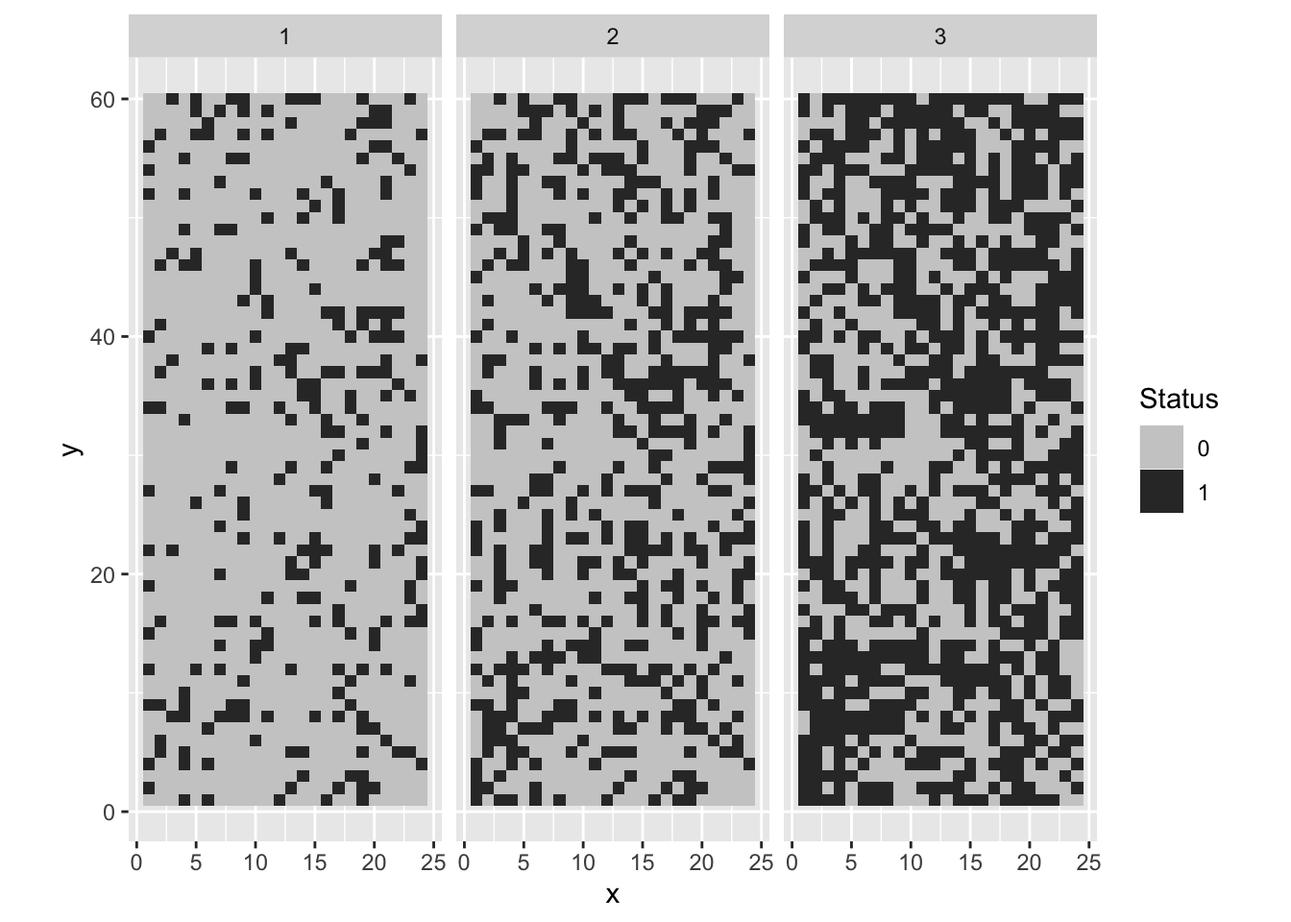
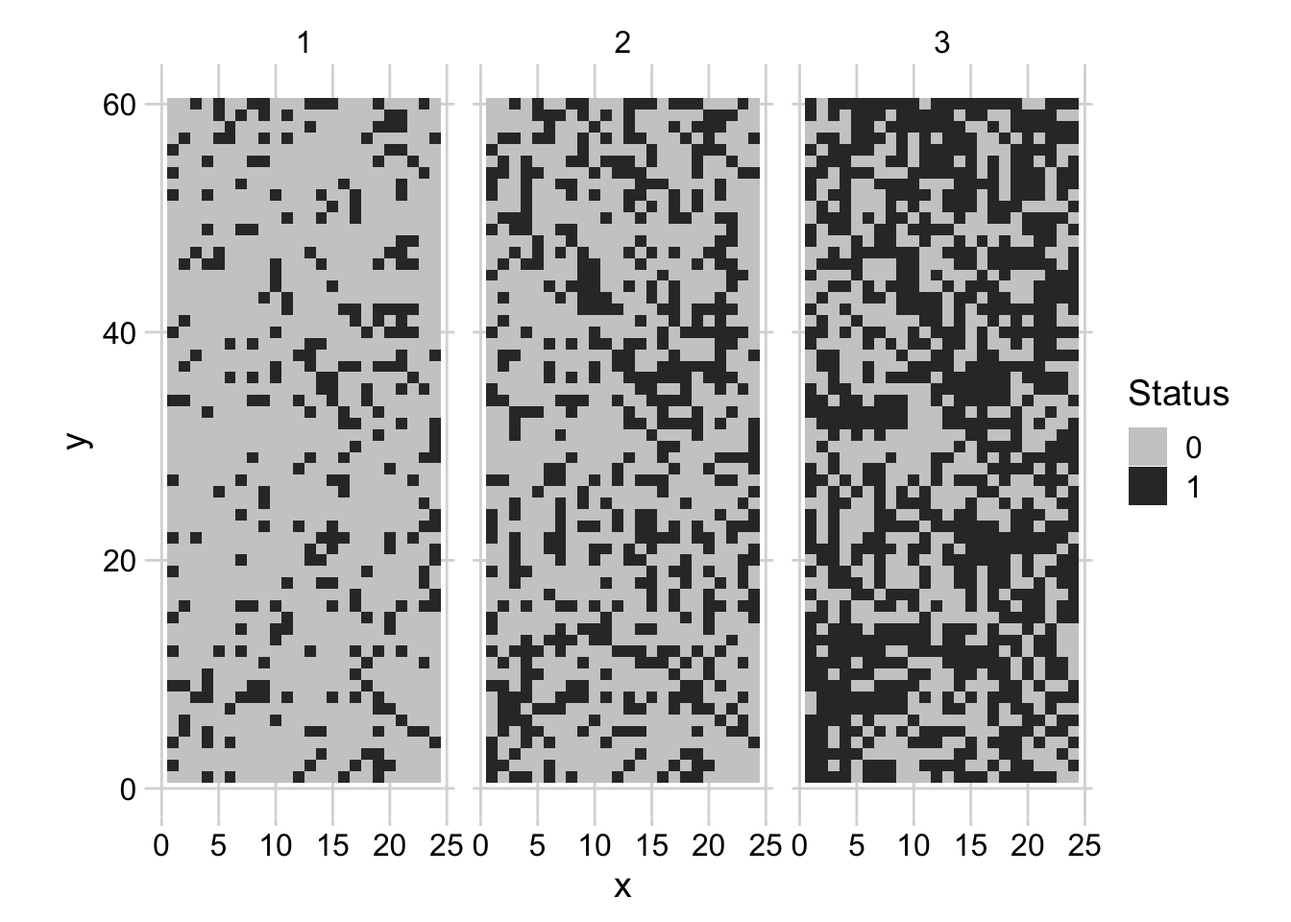
more spatial analyses

diff --git a/_book/spatial-patterns.html b/_book/spatial-patterns.html
@@ -206,6 +206,7 @@
 <li><a href="#intensively-mapped" class="nav-link" data-scroll-target="#intensively-mapped"> <span class="header-section-number">3.2</span> Intensively mapped</a>
 <ul class="collapse">
 <li><a href="#binary-data" class="nav-link" data-scroll-target="#binary-data"> <span class="header-section-number">3.2.1</span> Binary data</a></li>
+<li><a href="#grouped-data" class="nav-link" data-scroll-target="#grouped-data"> <span class="header-section-number">3.2.2</span> Grouped data</a></li>
 </ul></li>
 </ul>
 </nav>
@@ -350,7 +351,7 @@ alternative hypothesis: nonrandomness</code></pre>
 </section>
 <section id="join-count" class="level4" data-number="3.2.1.3">
 <h4 data-number="3.2.1.3" class="anchored" data-anchor-id="join-count"><span class="header-section-number">3.2.1.3</span> Join count</h4>
-<p>In this analysis, two adjacent plants may be classified by the type of join that links them: D-D, H-H or H-D. The orientation(s) of interest (along rows, across rows, diagonally, or a a combination o these) should be specified. The number of joins of the specified type in the orientation(s) of interest is then counted. The question is whether the observed join-count is large (or small) relative to that expected for a random pattern.</p>
+<p>In this analysis, two adjacent plants may be classified by the type of join that links them: D-D, H-H or H-D. The orientation(s) of interest (along rows, across rows, diagonally, or a a combination o these) should be specified. The number of joins of the specified type in the orientation(s) of interest is then counted. The question is whether the observed join-count is large (or small) relative to that expected for a random pattern. The join-count statistics provides a basic measure of spatial autocorrelation.</p>
 <p>In R, we can use the <code>join.count</code> function of the <code>spdep</code> package to perform a joint count test. First we need to create the series of binary data from top to bottom and left to right. The data are shown in Fig. 9.13 in page 260 of the book chapter on spatial analysis <span class="citation" data-cites="chapter2017">(<a href="references.html#ref-chapter2017" role="doc-biblioref">Madden et al. 2017</a>)</span>. In the example, there are 5 rows and 5 columns. This will be informed later to run the test.</p>
 <div class="cell">
 <div class="sourceCode" id="cb12"><pre class="sourceCode r cell-code code-with-copy"><code class="sourceCode r"><span id="cb12-1"><a href="#cb12-1" aria-hidden="true" tabindex="-1"></a><span class="co"># Enter the data</span></span>
@@ -474,9 +475,10 @@ Same colour statistic           Expectation              Variance
 </div>
 <p>We can apply these tests for a real example epidemic data provided by the <a href="https://chgigot.github.io/epiphy/">epiphy</a> R package. Let’s work with part of the intensively mapped data on the incidence of tomato spotted wilt virus (TSWV) disease in field trials reported by Cochran (1936) and Bald (1937). First, we need to load the library and then assign one dataframe (the dataset has two dataframes) of the dataset <code>tomato_tswv</code> to a new dataframe called <code>tswv_1929</code>.</p>
 <div class="cell">
-<div class="sourceCode" id="cb26"><pre class="sourceCode r cell-code code-with-copy"><code class="sourceCode r"><span id="cb26-1"><a href="#cb26-1" aria-hidden="true" tabindex="-1"></a><span class="fu">library</span>(epiphy)</span>
-<span id="cb26-2"><a href="#cb26-2" aria-hidden="true" tabindex="-1"></a>tswv_1929 <span class="ot">&lt;-</span> tomato_tswv<span class="sc">$</span>field_1929</span>
-<span id="cb26-3"><a href="#cb26-3" aria-hidden="true" tabindex="-1"></a><span class="fu">head</span>(tswv_1929) </span></code><button title="Copy to Clipboard" class="code-copy-button"><i class="bi"></i></button></pre></div>
+<div class="sourceCode" id="cb26"><pre class="sourceCode r cell-code code-with-copy"><code class="sourceCode r"><span id="cb26-1"><a href="#cb26-1" aria-hidden="true" tabindex="-1"></a><span class="fu">library</span>(epiphy) </span>
+<span id="cb26-2"><a href="#cb26-2" aria-hidden="true" tabindex="-1"></a><span class="fu">library</span>(cowplot) <span class="co"># theming the ggplot</span></span>
+<span id="cb26-3"><a href="#cb26-3" aria-hidden="true" tabindex="-1"></a>tswv_1929 <span class="ot">&lt;-</span> tomato_tswv<span class="sc">$</span>field_1929</span>
+<span id="cb26-4"><a href="#cb26-4" aria-hidden="true" tabindex="-1"></a><span class="fu">head</span>(tswv_1929) </span></code><button title="Copy to Clipboard" class="code-copy-button"><i class="bi"></i></button></pre></div>
 <div class="cell-output-stdout">
 <pre><code>  x y t i n
 1 1 1 1 0 1
@@ -493,9 +495,10 @@ Same colour statistic           Expectation              Variance
 <span id="cb28-2"><a href="#cb28-2" aria-hidden="true" tabindex="-1"></a>  <span class="fu">ggplot</span>(<span class="fu">aes</span>(x, y, <span class="at">fill =</span> <span class="fu">factor</span>(i)))<span class="sc">+</span></span>
 <span id="cb28-3"><a href="#cb28-3" aria-hidden="true" tabindex="-1"></a>  <span class="fu">geom_tile</span>()<span class="sc">+</span></span>
 <span id="cb28-4"><a href="#cb28-4" aria-hidden="true" tabindex="-1"></a>  <span class="fu">coord_fixed</span>()<span class="sc">+</span></span>
-<span id="cb28-5"><a href="#cb28-5" aria-hidden="true" tabindex="-1"></a>  <span class="fu">scale_fill_grey</span>(<span class="at">start =</span> <span class="fl">0.8</span>, <span class="at">end =</span> <span class="fl">0.2</span>)<span class="sc">+</span></span>
-<span id="cb28-6"><a href="#cb28-6" aria-hidden="true" tabindex="-1"></a>  <span class="fu">facet_wrap</span>(<span class="sc">~</span> t)<span class="sc">+</span></span>
-<span id="cb28-7"><a href="#cb28-7" aria-hidden="true" tabindex="-1"></a>  <span class="fu">labs</span>(<span class="at">fill =</span> <span class="st">"Status"</span>)</span></code><button title="Copy to Clipboard" class="code-copy-button"><i class="bi"></i></button></pre></div>
+<span id="cb28-5"><a href="#cb28-5" aria-hidden="true" tabindex="-1"></a>  <span class="fu">theme_minimal_grid</span>()<span class="sc">+</span></span>
+<span id="cb28-6"><a href="#cb28-6" aria-hidden="true" tabindex="-1"></a>  <span class="fu">scale_fill_grey</span>(<span class="at">start =</span> <span class="fl">0.8</span>, <span class="at">end =</span> <span class="fl">0.2</span>)<span class="sc">+</span></span>
+<span id="cb28-7"><a href="#cb28-7" aria-hidden="true" tabindex="-1"></a>  <span class="fu">facet_wrap</span>(<span class="sc">~</span> t)<span class="sc">+</span></span>
+<span id="cb28-8"><a href="#cb28-8" aria-hidden="true" tabindex="-1"></a>  <span class="fu">labs</span>(<span class="at">fill =</span> <span class="st">"Status"</span>)</span></code><button title="Copy to Clipboard" class="code-copy-button"><i class="bi"></i></button></pre></div>
 <div class="cell-output-display">
 <p><img src="spatial-patterns_files/figure-html/unnamed-chunk-32-1.png" class="img-fluid" width="672"></p>
 </div>
@@ -518,7 +521,7 @@ Same colour statistic           Expectation              Variance
 <p>There are 60 rows and 24 columns.</p>
 <div class="cell">
 <div class="sourceCode" id="cb31"><pre class="sourceCode r cell-code code-with-copy"><code class="sourceCode r"><span id="cb31-1"><a href="#cb31-1" aria-hidden="true" tabindex="-1"></a><span class="co"># Neighbor grid</span></span>
-<span id="cb31-2"><a href="#cb31-2" aria-hidden="true" tabindex="-1"></a>nb <span class="ot">&lt;-</span> <span class="fu">cell2nb</span>(<span class="at">nrow =</span> <span class="dv">60</span>, </span>
+<span id="cb31-2"><a href="#cb31-2" aria-hidden="true" tabindex="-1"></a>nb1 <span class="ot">&lt;-</span> <span class="fu">cell2nb</span>(<span class="at">nrow =</span> <span class="dv">60</span>, </span>
 <span id="cb31-3"><a href="#cb31-3" aria-hidden="true" tabindex="-1"></a>              <span class="at">ncol =</span> <span class="dv">24</span>, </span>
 <span id="cb31-4"><a href="#cb31-4" aria-hidden="true" tabindex="-1"></a>              <span class="at">type=</span><span class="st">"rook"</span>)</span>
 <span id="cb31-5"><a href="#cb31-5" aria-hidden="true" tabindex="-1"></a></span>
@@ -528,13 +531,13 @@ Same colour statistic           Expectation              Variance
 <span id="cb31-9"><a href="#cb31-9" aria-hidden="true" tabindex="-1"></a>  <span class="fu">pull</span>(i)</span>
 <span id="cb31-10"><a href="#cb31-10" aria-hidden="true" tabindex="-1"></a></span>
 <span id="cb31-11"><a href="#cb31-11" aria-hidden="true" tabindex="-1"></a><span class="fu">joincount.test</span>(<span class="fu">factor</span>(S1), </span>
-<span id="cb31-12"><a href="#cb31-12" aria-hidden="true" tabindex="-1"></a>                <span class="fu">nb2listw</span>(nb))</span></code><button title="Copy to Clipboard" class="code-copy-button"><i class="bi"></i></button></pre></div>
+<span id="cb31-12"><a href="#cb31-12" aria-hidden="true" tabindex="-1"></a>                <span class="fu">nb2listw</span>(nb1))</span></code><button title="Copy to Clipboard" class="code-copy-button"><i class="bi"></i></button></pre></div>
 <div class="cell-output-stdout">
 <pre><code>
     Join count test under nonfree sampling
 
 data:  factor(S1) 
-weights: nb2listw(nb) 
+weights: nb2listw(nb1) 
 
 Std. deviate for 0 = -0.28351, p-value = 0.6116
 alternative hypothesis: greater
@@ -546,7 +549,7 @@ Same colour statistic           Expectation              Variance
     Join count test under nonfree sampling
 
 data:  factor(S1) 
-weights: nb2listw(nb) 
+weights: nb2listw(nb1) 
 
 Std. deviate for 1 = -0.059497, p-value = 0.5237
 alternative hypothesis: greater
@@ -555,7 +558,7 @@ Same colour statistic           Expectation              Variance
             23.458333             23.578874              4.104614 </code></pre>
 </div>
 </div>
-<p>We can repeat the procedure for time 2 and time 3.</p>
+<p>We can apply the join count test for time 2 and time 3. Results show that the pattern changes from random to aggregate over time.</p>
 <div class="cell">
 <div class="sourceCode" id="cb33"><pre class="sourceCode r cell-code code-with-copy"><code class="sourceCode r"><span id="cb33-1"><a href="#cb33-1" aria-hidden="true" tabindex="-1"></a><span class="co"># Pull the binary sequence of time 1</span></span>
 <span id="cb33-2"><a href="#cb33-2" aria-hidden="true" tabindex="-1"></a>S2 <span class="ot">&lt;-</span> tswv_1929 <span class="sc">%&gt;%</span> </span>
@@ -563,13 +566,13 @@ Same colour statistic           Expectation              Variance
 <span id="cb33-4"><a href="#cb33-4" aria-hidden="true" tabindex="-1"></a>  <span class="fu">pull</span>(i)</span>
 <span id="cb33-5"><a href="#cb33-5" aria-hidden="true" tabindex="-1"></a></span>
 <span id="cb33-6"><a href="#cb33-6" aria-hidden="true" tabindex="-1"></a><span class="fu">joincount.test</span>(<span class="fu">factor</span>(S2), </span>
-<span id="cb33-7"><a href="#cb33-7" aria-hidden="true" tabindex="-1"></a>                <span class="fu">nb2listw</span>(nb))</span></code><button title="Copy to Clipboard" class="code-copy-button"><i class="bi"></i></button></pre></div>
+<span id="cb33-7"><a href="#cb33-7" aria-hidden="true" tabindex="-1"></a>                <span class="fu">nb2listw</span>(nb1))</span></code><button title="Copy to Clipboard" class="code-copy-button"><i class="bi"></i></button></pre></div>
 <div class="cell-output-stdout">
 <pre><code>
     Join count test under nonfree sampling
 
 data:  factor(S2) 
-weights: nb2listw(nb) 
+weights: nb2listw(nb1) 
 
 Std. deviate for 0 = 0.35872, p-value = 0.3599
 alternative hypothesis: greater
@@ -581,7 +584,7 @@ Same colour statistic           Expectation              Variance
     Join count test under nonfree sampling
 
 data:  factor(S2) 
-weights: nb2listw(nb) 
+weights: nb2listw(nb1) 
 
 Std. deviate for 1 = 0.34604, p-value = 0.3647
 alternative hypothesis: greater
@@ -595,13 +598,13 @@ Same colour statistic           Expectation              Variance
 <span id="cb35-4"><a href="#cb35-4" aria-hidden="true" tabindex="-1"></a>  <span class="fu">pull</span>(i)</span>
 <span id="cb35-5"><a href="#cb35-5" aria-hidden="true" tabindex="-1"></a></span>
 <span id="cb35-6"><a href="#cb35-6" aria-hidden="true" tabindex="-1"></a><span class="fu">joincount.test</span>(<span class="fu">factor</span>(S3), </span>
-<span id="cb35-7"><a href="#cb35-7" aria-hidden="true" tabindex="-1"></a>                <span class="fu">nb2listw</span>(nb))</span></code><button title="Copy to Clipboard" class="code-copy-button"><i class="bi"></i></button></pre></div>
+<span id="cb35-7"><a href="#cb35-7" aria-hidden="true" tabindex="-1"></a>                <span class="fu">nb2listw</span>(nb1))</span></code><button title="Copy to Clipboard" class="code-copy-button"><i class="bi"></i></button></pre></div>
 <div class="cell-output-stdout">
 <pre><code>
     Join count test under nonfree sampling
 
 data:  factor(S3) 
-weights: nb2listw(nb) 
+weights: nb2listw(nb1) 
 
 Std. deviate for 0 = 1.8541, p-value = 0.03186
 alternative hypothesis: greater
@@ -613,7 +616,7 @@ Same colour statistic           Expectation              Variance
     Join count test under nonfree sampling
 
 data:  factor(S3) 
-weights: nb2listw(nb) 
+weights: nb2listw(nb1) 
 
 Std. deviate for 1 = 1.7275, p-value = 0.04204
 alternative hypothesis: greater
@@ -622,6 +625,172 @@ Same colour statistic           Expectation              Variance
             243.70833             237.92773              11.19743 </code></pre>
 </div>
 </div>
+</section>
+</section>
+<section id="grouped-data" class="level3" data-number="3.2.2">
+<h3 data-number="3.2.2" class="anchored" data-anchor-id="grouped-data"><span class="header-section-number">3.2.2</span> Grouped data</h3>
+<p>If the data are intensively mapped, meaning that the spatial locations of the sampling units are known, we are not limited to analyse presence/absence (incidence) only data at the unit level. The sampling units may be quadrats where the total number of plants and the number of disease plants (or number of pathogen propagules) are known. Alternatively, it could be a continuous measure of severity. The question here, similar to the previous section, is whether a plant being diseased makes it more (or less) likely that neighboring plants will be diseased. If that is the case, diseased plants are exhibiting spatial autocorrelation. The most common methods are autocorrelation (known as Moran’s I), semivariance and SADIE (an alternative approach to autocorrelation.)</p>
+<section id="autocorrelation" class="level4" data-number="3.2.2.1">
+<h4 data-number="3.2.2.1" class="anchored" data-anchor-id="autocorrelation"><span class="header-section-number">3.2.2.1</span> Autocorrelation</h4>
+<p>Spatial autocorrelation analysis provides a quantitative assessment of whether a large value of disease intensity in a sampling unit makes it more (positive autocorrelation) or less (negative auto- correlation) likely that neighboring sampling units tend to have a large value of disease intensity <span class="citation" data-cites="chapter2017">(<a href="references.html#ref-chapter2017" role="doc-biblioref">Madden et al. 2017</a>)</span>.</p>
+<p>We will illustrate the method by reproducing the example provided in page 264 of the chapter on spatial analysis <span class="citation" data-cites="chapter2017">(<a href="references.html#ref-chapter2017" role="doc-biblioref">Madden et al. 2017</a>)</span>, which was extracted from table 11.3 of Campbell and Madden (1990). The data represent a single transect with the number of <em>Macrophomia phaseolina</em> propagules per 10 g air-dry soil recorded in 16 contiguous quadrats across a field.</p>
+<div class="cell">
+<div class="sourceCode" id="cb37"><pre class="sourceCode r cell-code code-with-copy"><code class="sourceCode r"><span id="cb37-1"><a href="#cb37-1" aria-hidden="true" tabindex="-1"></a>mp <span class="ot">&lt;-</span> <span class="fu">data.frame</span>(</span>
+<span id="cb37-2"><a href="#cb37-2" aria-hidden="true" tabindex="-1"></a>  <span class="at">i =</span> <span class="fu">c</span>(<span class="dv">1</span><span class="sc">:</span><span class="dv">16</span>),</span>
+<span id="cb37-3"><a href="#cb37-3" aria-hidden="true" tabindex="-1"></a>  <span class="at">y =</span> <span class="fu">c</span>(<span class="dv">41</span>, <span class="dv">60</span>, <span class="dv">81</span>, <span class="dv">22</span>, <span class="dv">8</span>, <span class="dv">20</span>, <span class="dv">28</span>, <span class="dv">2</span>, <span class="dv">0</span>, <span class="dv">2</span>, <span class="dv">2</span>, <span class="dv">8</span>, <span class="dv">0</span>, <span class="dv">43</span>, <span class="dv">61</span>, <span class="dv">50</span>)</span>
+<span id="cb37-4"><a href="#cb37-4" aria-hidden="true" tabindex="-1"></a>)</span>
+<span id="cb37-5"><a href="#cb37-5" aria-hidden="true" tabindex="-1"></a>mp</span></code><button title="Copy to Clipboard" class="code-copy-button"><i class="bi"></i></button></pre></div>
+<div class="cell-output-stdout">
+<pre><code>    i  y
+1   1 41
+2   2 60
+3   3 81
+4   4 22
+5   5  8
+6   6 20
+7   7 28
+8   8  2
+9   9  0
+10 10  2
+11 11  2
+12 12  8
+13 13  0
+14 14 43
+15 15 61
+16 16 50</code></pre>
+</div>
+</div>
+<p>We can produce a plot to visualize the number of propagules across the transect.</p>
+<div class="cell">
+<div class="sourceCode" id="cb39"><pre class="sourceCode r cell-code code-with-copy"><code class="sourceCode r"><span id="cb39-1"><a href="#cb39-1" aria-hidden="true" tabindex="-1"></a>mp <span class="sc">%&gt;%</span> </span>
+<span id="cb39-2"><a href="#cb39-2" aria-hidden="true" tabindex="-1"></a>  <span class="fu">ggplot</span>(<span class="fu">aes</span>(i, y))<span class="sc">+</span></span>
+<span id="cb39-3"><a href="#cb39-3" aria-hidden="true" tabindex="-1"></a>  <span class="fu">geom_col</span>(<span class="at">fill =</span> <span class="st">"darkorange"</span>)<span class="sc">+</span></span>
+<span id="cb39-4"><a href="#cb39-4" aria-hidden="true" tabindex="-1"></a>  <span class="fu">theme_minimal_grid</span>()<span class="sc">+</span></span>
+<span id="cb39-5"><a href="#cb39-5" aria-hidden="true" tabindex="-1"></a>  <span class="fu">labs</span>(<span class="at">x =</span> <span class="st">"Relative position within a transect"</span>, </span>
+<span id="cb39-6"><a href="#cb39-6" aria-hidden="true" tabindex="-1"></a>       <span class="at">y =</span> <span class="st">"Number of propagules"</span>,</span>
+<span id="cb39-7"><a href="#cb39-7" aria-hidden="true" tabindex="-1"></a>       <span class="at">title =</span> <span class="st">"Macrophomina phaseolina in the soil"</span>,</span>
+<span id="cb39-8"><a href="#cb39-8" aria-hidden="true" tabindex="-1"></a>       <span class="at">caption =</span> <span class="st">"Source: Campbell and Madden (1990)"</span>)</span></code><button title="Copy to Clipboard" class="code-copy-button"><i class="bi"></i></button></pre></div>
+<div class="cell-output-display">
+<p><img src="spatial-patterns_files/figure-html/unnamed-chunk-42-1.png" class="img-fluid" width="672"></p>
+</div>
+</div>
+<p>To calculate the autocorrelation coefficient in R, we can use the <code>ac</code> function of the <em>tseries</em> package.</p>
+<div class="cell">
+<div class="sourceCode" id="cb40"><pre class="sourceCode r cell-code code-with-copy"><code class="sourceCode r"><span id="cb40-1"><a href="#cb40-1" aria-hidden="true" tabindex="-1"></a><span class="fu">library</span>(tseries)</span>
+<span id="cb40-2"><a href="#cb40-2" aria-hidden="true" tabindex="-1"></a>ac_mp <span class="ot">&lt;-</span> <span class="fu">acf</span>(mp<span class="sc">$</span>y, <span class="at">lag =</span> <span class="dv">5</span>, <span class="at">pl =</span> <span class="cn">FALSE</span>)</span>
+<span id="cb40-3"><a href="#cb40-3" aria-hidden="true" tabindex="-1"></a>ac_mp</span></code><button title="Copy to Clipboard" class="code-copy-button"><i class="bi"></i></button></pre></div>
+<div class="cell-output-stdout">
+<pre><code>
+Autocorrelations of series 'mp$y', by lag
+
+     0      1      2      3      4      5 
+ 1.000  0.586  0.126 -0.033 -0.017 -0.181 </code></pre>
+</div>
+</div>
+<p>Let’s store the results in a dataframe to facilitate visualization using ggplot.</p>
+<div class="cell">
+<div class="sourceCode" id="cb42"><pre class="sourceCode r cell-code code-with-copy"><code class="sourceCode r"><span id="cb42-1"><a href="#cb42-1" aria-hidden="true" tabindex="-1"></a>ac_mp_dat <span class="ot">&lt;-</span> <span class="fu">data.frame</span>(<span class="at">index =</span> ac_mp<span class="sc">$</span>lag, ac_mp<span class="sc">$</span>acf)</span>
+<span id="cb42-2"><a href="#cb42-2" aria-hidden="true" tabindex="-1"></a>ac_mp_dat</span></code><button title="Copy to Clipboard" class="code-copy-button"><i class="bi"></i></button></pre></div>
+<div class="cell-output-stdout">
+<pre><code>  index   ac_mp.acf
+1     0  1.00000000
+2     1  0.58579374
+3     2  0.12636306
+4     3 -0.03307249
+5     4 -0.01701392
+6     5 -0.18092810</code></pre>
+</div>
+</div>
+<p>And now the plot known as autocorrelogram.</p>
+<div class="cell">
+<div class="sourceCode" id="cb44"><pre class="sourceCode r cell-code code-with-copy"><code class="sourceCode r"><span id="cb44-1"><a href="#cb44-1" aria-hidden="true" tabindex="-1"></a>ac_mp_dat <span class="sc">%&gt;%</span> </span>
+<span id="cb44-2"><a href="#cb44-2" aria-hidden="true" tabindex="-1"></a>  <span class="fu">ggplot</span>(<span class="fu">aes</span>(index, ac_mp.acf, <span class="at">label =</span> <span class="fu">round</span>(ac_mp.acf,<span class="dv">3</span>)))<span class="sc">+</span></span>
+<span id="cb44-3"><a href="#cb44-3" aria-hidden="true" tabindex="-1"></a>  <span class="fu">geom_col</span>()<span class="sc">+</span></span>
+<span id="cb44-4"><a href="#cb44-4" aria-hidden="true" tabindex="-1"></a>  <span class="fu">geom_text</span>(<span class="at">vjust =</span> <span class="dv">0</span>, <span class="at">nudge_y =</span> <span class="fl">0.05</span>)<span class="sc">+</span></span>
+<span id="cb44-5"><a href="#cb44-5" aria-hidden="true" tabindex="-1"></a>  <span class="fu">scale_x_continuous</span>(<span class="at">n.breaks =</span> <span class="dv">6</span>)<span class="sc">+</span></span>
+<span id="cb44-6"><a href="#cb44-6" aria-hidden="true" tabindex="-1"></a>  <span class="fu">theme_minimal_grid</span>()<span class="sc">+</span></span>
+<span id="cb44-7"><a href="#cb44-7" aria-hidden="true" tabindex="-1"></a>  <span class="fu">geom_hline</span>(<span class="at">yintercept =</span> <span class="dv">0</span>)<span class="sc">+</span></span>
+<span id="cb44-8"><a href="#cb44-8" aria-hidden="true" tabindex="-1"></a>  <span class="fu">labs</span>(<span class="at">x =</span> <span class="st">"Distance lag"</span>, <span class="at">y =</span> <span class="st">"Autocorrelation coefficient"</span>)</span></code><button title="Copy to Clipboard" class="code-copy-button"><i class="bi"></i></button></pre></div>
+<div class="cell-output-display">
+<p><img src="spatial-patterns_files/figure-html/unnamed-chunk-48-1.png" class="img-fluid" width="672"></p>
+</div>
+</div>
+<p>The values we obtained here are not the same but quite close to the values reported in Madden et al.&nbsp;(2007). For the transect data, the calculated coefficients in the book example for lags 1, 2 and 3 are 0.625, 0.144, and - 0.041. The conclusion is the same, the smaller the distance between sampling units, the stronger is the correlation between the count values.</p>
+<p>The method above is usually referred to Moran’s I (Moran, 1950). Let’s use another example dataset from the book to calculate Moran’s I in R. The data is shown in page 269 of the book. The data are number of diseased plants per quadrat (out of a total of 100 plants in each) in 144 quadrats, based on an epidemic generated using the stochastic simulator of Xu and Madden (2004). The data is stored in a csv file.</p>
+<div class="cell">
+<div class="sourceCode" id="cb45"><pre class="sourceCode r cell-code code-with-copy"><code class="sourceCode r"><span id="cb45-1"><a href="#cb45-1" aria-hidden="true" tabindex="-1"></a>epi <span class="ot">&lt;-</span> <span class="fu">read_csv</span>(<span class="st">"data/xu-madden-simulated.csv"</span>)</span></code><button title="Copy to Clipboard" class="code-copy-button"><i class="bi"></i></button></pre></div>
+<div class="cell-output-stderr">
+<pre><code>
+── Column specification ────────────────────────────────────────────────────────
+cols(
+  x = col_double(),
+  `1` = col_double(),
+  `2` = col_double(),
+  `3` = col_double(),
+  `4` = col_double(),
+  `5` = col_double(),
+  `6` = col_double(),
+  `7` = col_double(),
+  `8` = col_double(),
+  `9` = col_double(),
+  `10` = col_double(),
+  `11` = col_double(),
+  `12` = col_double()
+)</code></pre>
+</div>
+<div class="sourceCode" id="cb47"><pre class="sourceCode r cell-code code-with-copy"><code class="sourceCode r"><span id="cb47-1"><a href="#cb47-1" aria-hidden="true" tabindex="-1"></a><span class="co"># transform from wide to long format and pull the n variable</span></span>
+<span id="cb47-2"><a href="#cb47-2" aria-hidden="true" tabindex="-1"></a>epi1 <span class="ot">&lt;-</span> epi <span class="sc">%&gt;%</span> </span>
+<span id="cb47-3"><a href="#cb47-3" aria-hidden="true" tabindex="-1"></a>  <span class="fu">pivot_longer</span>(<span class="dv">2</span><span class="sc">:</span><span class="dv">13</span>,</span>
+<span id="cb47-4"><a href="#cb47-4" aria-hidden="true" tabindex="-1"></a>               <span class="at">names_to =</span> <span class="st">"quadrat"</span>,</span>
+<span id="cb47-5"><a href="#cb47-5" aria-hidden="true" tabindex="-1"></a>               <span class="at">values_to =</span> <span class="st">"n"</span>) <span class="sc">%&gt;%</span> </span>
+<span id="cb47-6"><a href="#cb47-6" aria-hidden="true" tabindex="-1"></a>  <span class="fu">pull</span>(n)</span></code><button title="Copy to Clipboard" class="code-copy-button"><i class="bi"></i></button></pre></div>
+</div>
+<p>Using <code>moran</code> function of the <em>spdep</em> R package.</p>
+<div class="cell">
+<div class="sourceCode" id="cb48"><pre class="sourceCode r cell-code code-with-copy"><code class="sourceCode r"><span id="cb48-1"><a href="#cb48-1" aria-hidden="true" tabindex="-1"></a><span class="fu">set.seed</span>(<span class="dv">100</span>)</span>
+<span id="cb48-2"><a href="#cb48-2" aria-hidden="true" tabindex="-1"></a><span class="fu">library</span>(spdep)</span>
+<span id="cb48-3"><a href="#cb48-3" aria-hidden="true" tabindex="-1"></a>nb <span class="ot">&lt;-</span> <span class="fu">cell2nb</span>(<span class="dv">12</span>, <span class="dv">12</span>, <span class="at">type=</span><span class="st">"queen"</span>, <span class="at">torus =</span> <span class="cn">FALSE</span>) <span class="co">#</span></span>
+<span id="cb48-4"><a href="#cb48-4" aria-hidden="true" tabindex="-1"></a>col.W <span class="ot">&lt;-</span> <span class="fu">nb2listw</span>(nb, <span class="at">style=</span><span class="st">"W"</span>)</span>
+<span id="cb48-5"><a href="#cb48-5" aria-hidden="true" tabindex="-1"></a>count<span class="ot">&lt;-</span> epi1</span>
+<span id="cb48-6"><a href="#cb48-6" aria-hidden="true" tabindex="-1"></a></span>
+<span id="cb48-7"><a href="#cb48-7" aria-hidden="true" tabindex="-1"></a><span class="co"># Cálculo do Moran's I</span></span>
+<span id="cb48-8"><a href="#cb48-8" aria-hidden="true" tabindex="-1"></a><span class="fu">moran</span>(count, col.W, <span class="dv">12</span>, <span class="fu">Szero</span>(col.W))</span></code><button title="Copy to Clipboard" class="code-copy-button"><i class="bi"></i></button></pre></div>
+<div class="cell-output-stdout">
+<pre><code>$I
+[1] 0.05818595
+
+$K
+[1] 2.878088</code></pre>
+</div>
+<div class="sourceCode" id="cb50"><pre class="sourceCode r cell-code code-with-copy"><code class="sourceCode r"><span id="cb50-1"><a href="#cb50-1" aria-hidden="true" tabindex="-1"></a><span class="co"># Aplicando o teste de Moran's</span></span>
+<span id="cb50-2"><a href="#cb50-2" aria-hidden="true" tabindex="-1"></a><span class="fu">moran.test</span>(count, <span class="fu">nb2listw</span>(nb, <span class="at">style=</span><span class="st">"W"</span>))</span></code><button title="Copy to Clipboard" class="code-copy-button"><i class="bi"></i></button></pre></div>
+<div class="cell-output-stdout">
+<pre><code>
+    Moran I test under randomisation
+
+data:  count  
+weights: nb2listw(nb, style = "W")    
+
+Moran I statistic standard deviate = 15.919, p-value &lt; 2.2e-16
+alternative hypothesis: greater
+sample estimates:
+Moran I statistic       Expectation          Variance 
+      0.698231416      -0.006993007       0.001962596 </code></pre>
+</div>
+<div class="sourceCode" id="cb52"><pre class="sourceCode r cell-code code-with-copy"><code class="sourceCode r"><span id="cb52-1"><a href="#cb52-1" aria-hidden="true" tabindex="-1"></a><span class="co"># Correlogram</span></span>
+<span id="cb52-2"><a href="#cb52-2" aria-hidden="true" tabindex="-1"></a>correl_I <span class="ot">&lt;-</span> <span class="fu">sp.correlogram</span>(nb, count, <span class="at">order=</span><span class="dv">10</span>,</span>
+<span id="cb52-3"><a href="#cb52-3" aria-hidden="true" tabindex="-1"></a>                           <span class="at">method=</span><span class="st">"I"</span>,  <span class="at">zero.policy=</span><span class="cn">TRUE</span>)</span>
+<span id="cb52-4"><a href="#cb52-4" aria-hidden="true" tabindex="-1"></a><span class="fu">plot</span>(correl_I, <span class="at">main=</span><span class="st">"Correlogram"</span>)</span></code><button title="Copy to Clipboard" class="code-copy-button"><i class="bi"></i></button></pre></div>
+<div class="cell-output-display">
+<p><img src="spatial-patterns_files/figure-html/unnamed-chunk-52-1.png" class="img-fluid" width="672"></p>
+</div>
+</div>
+</section>
+<section id="semivariance" class="level4" data-number="3.2.2.2">
+<h4 data-number="3.2.2.2" class="anchored" data-anchor-id="semivariance"><span class="header-section-number">3.2.2.2</span> Semivariance</h4>
+</section>
+<section id="sadie-distance-indices" class="level4" data-number="3.2.2.3">
+<h4 data-number="3.2.2.3" class="anchored" data-anchor-id="sadie-distance-indices"><span class="header-section-number">3.2.2.3</span> SADIE (distance indices)</h4>
 
 
 
